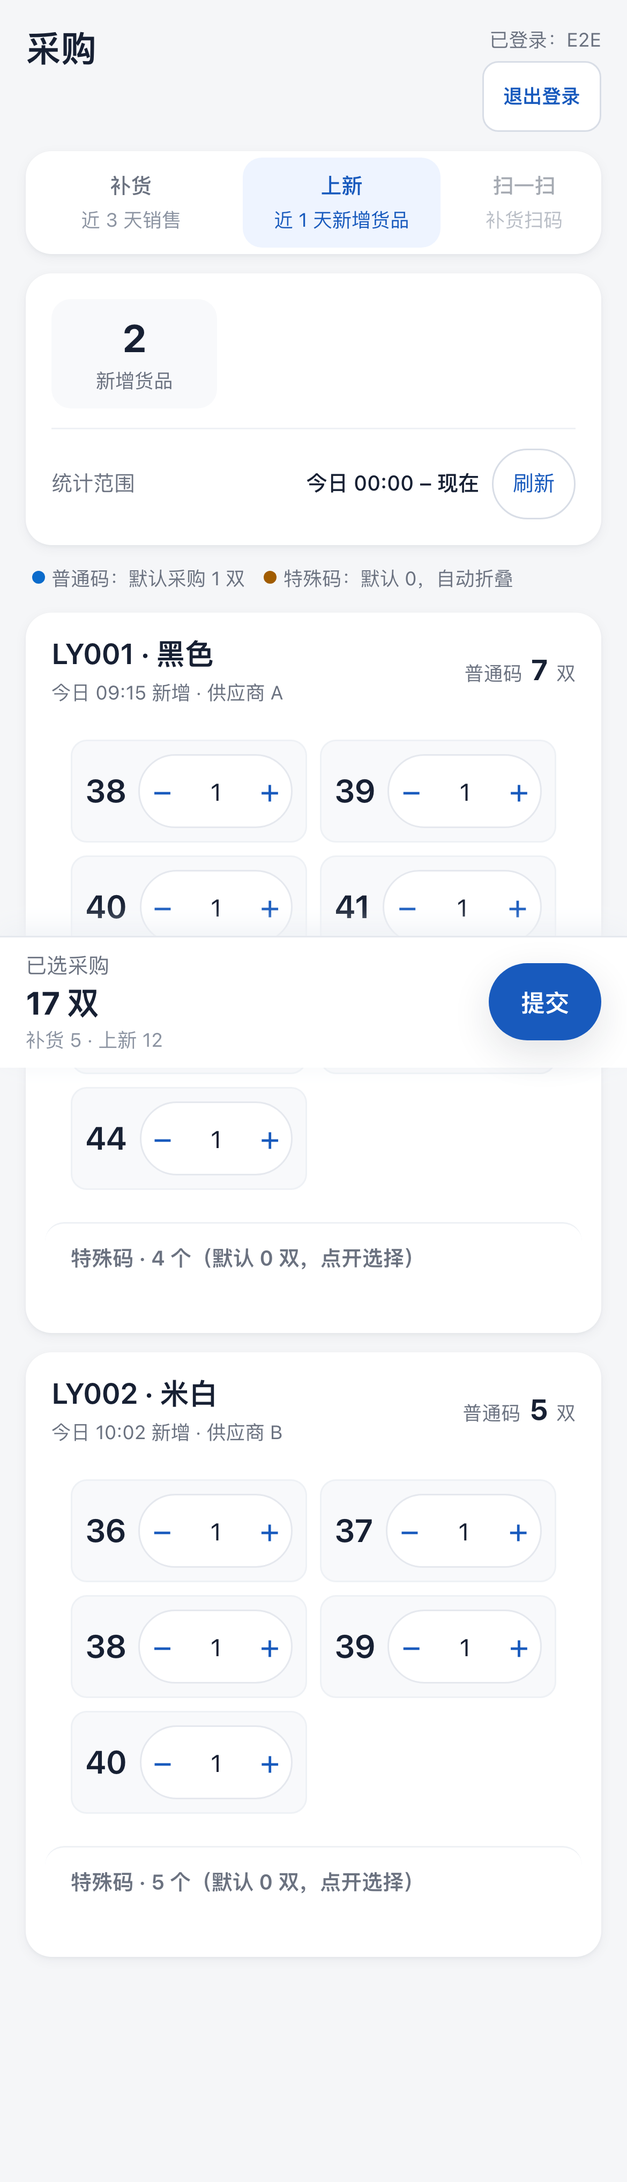
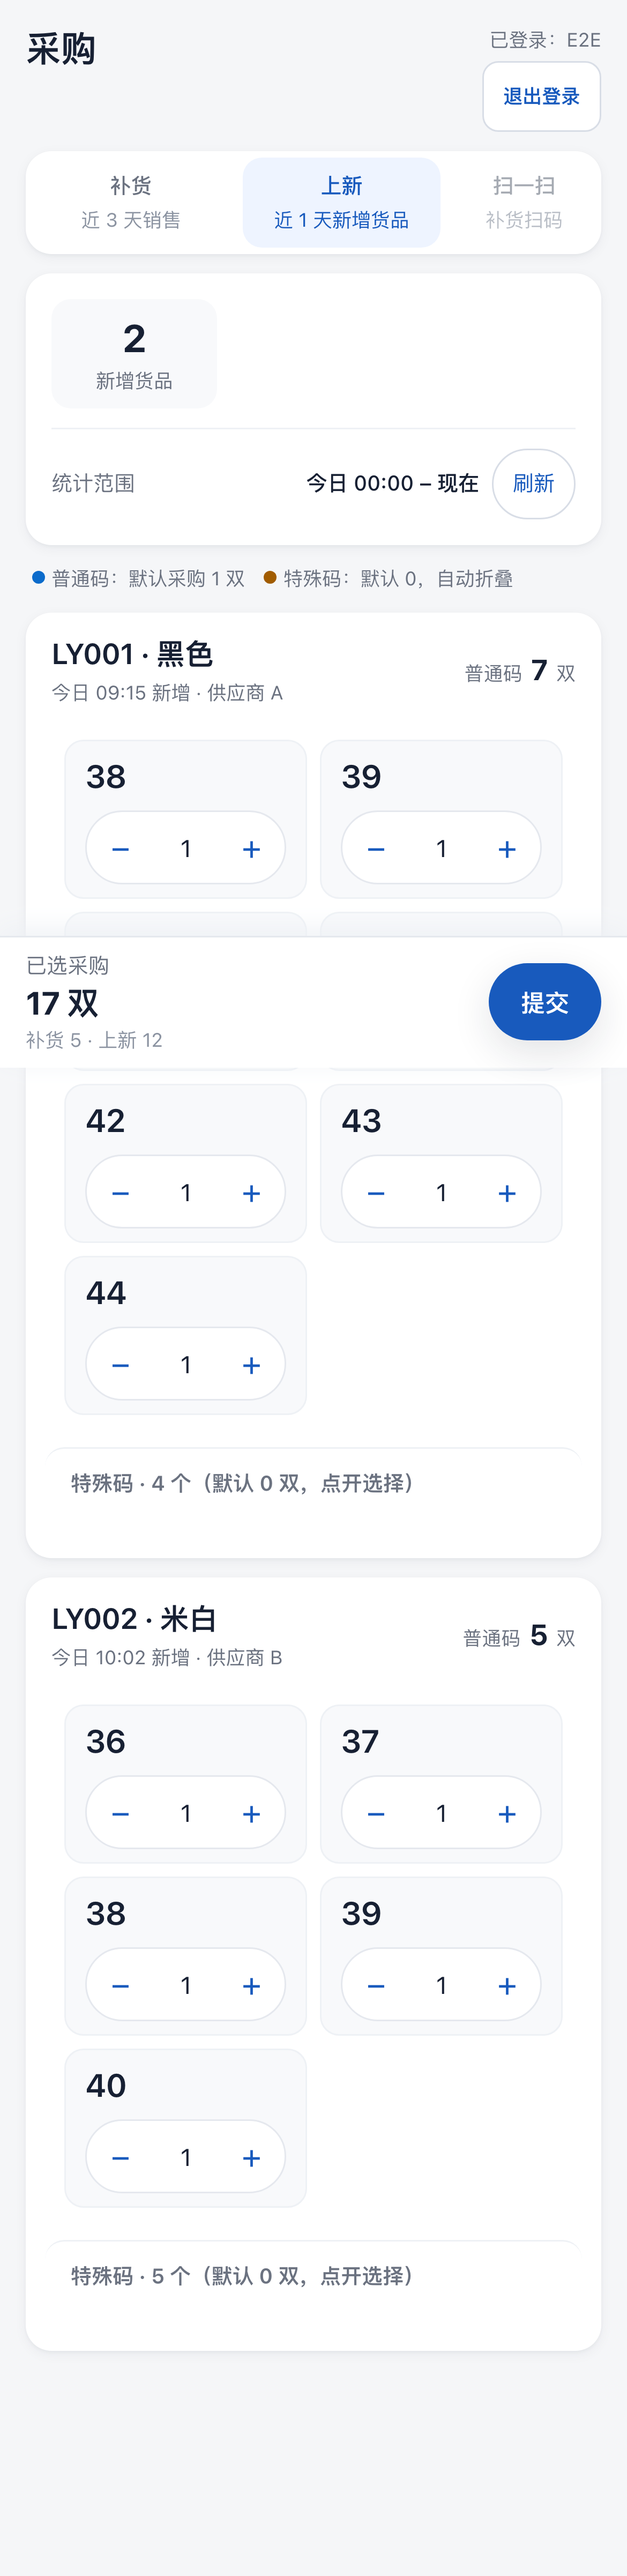
feat(procurement): 上新尺码格统一成补货同款卡片样式（业务负责人 2026-10-29）
- 上新普通码/特殊码格：一行两个、上下两栏（第一行尺码 / 第二行加减圆框居中），与补货一致；
- 无勾选框；普通码默认 1、特殊码默认 0 并折叠、顶部统计只有「新增货品」等口径不变；
- e2e 14 passed；全量 2262 tests / 2261 pass / 0 fail；size:check 绿。

diff --git a/server/public/workbench/procurement.css b/server/public/workbench/procurement.css
@@ -61,9 +61,9 @@
 .pr-tag-spot { background: var(--info-soft); color: var(--info); }
 .pr-tag-pre { background: var(--warning-soft); color: var(--warning); }
 
-/* 上新尺码格 */
-.pr-new-grid { display: grid; grid-template-columns: repeat(2, minmax(0, 1fr)); gap: var(--space-2); padding: var(--space-2) var(--space-4) var(--space-3); width: 100%; }
-.pr-new-row { display: flex; align-items: center; justify-content: space-between; gap: var(--space-2); padding: var(--space-2); border: 1px solid var(--border-light); border-radius: var(--radius-sm); background: var(--surface-soft); }
+/* 上新尺码格：与补货**同一套卡片样式**（一行两个 · 上下两栏 · 加减圆框居中） */
+.pr-new-grid { display: grid; grid-template-columns: repeat(2, minmax(0, 1fr)); gap: var(--space-2); padding: var(--space-2) var(--space-3) var(--space-3); width: 100%; }
+.pr-new-grid .pr-size-row { width: 100%; }
 .pr-special { width: 100%; padding: 0 var(--space-4) var(--space-3); border-top: 1px solid var(--border-light); }
 .pr-special summary { display: flex; align-items: center; min-height: var(--control-height); font-size: var(--font-size-sm); color: var(--text-secondary); cursor: pointer; }
 

diff --git a/server/public/workbench/features/procurement/render.js b/server/public/workbench/features/procurement/render.js
@@ -101,8 +101,10 @@ export const replenishGroupHtml = (group, draft, store, config) => `<section cla
 
 const newRowHtml = (group, size, draft, store, config) => {
   const quantity = store.quantityOf(draft, group.productRecordId, size);
-  return `<div class="pr-new-row">
-    <div class="pr-size">${escapeHtml(size)}</div>
+  // 业务负责人 2026-10-29：上新尺码格**统一成补货那种卡片样式** ——
+  // 上下两栏（第一行尺码 / 第二行加减圆框居中），一行两个。
+  return `<div class="pr-size-row">
+    <div class="pr-size-row-head"><div class="pr-size">${escapeHtml(size)}</div></div>
     ${stepperHtml({ recordId: group.productRecordId, size, quantity, config })}
   </div>`;
 };

diff --git a/docs/procurement-page-real-2026-10-28.md b/docs/procurement-page-real-2026-10-28.md
@@ -109,8 +109,9 @@ tab 切换保留当前会话已选数据；点「提交」才统一写入
 - **AC-P17 薄壳 + 模块化**：`procurement.html` 只做壳（引 CSS/模块、挂载根节点，≤200 行）；业务逻辑全在
   `features/procurement/**`；文案/默认值/尺码规则/端点/刷新参数全在 `config/procurement.js`；
   新文件每个 ≤200 行；**不往旧 398 行演示页补逻辑，整体替换**。
-- **AC-P18c 补货尺码卡 = 一行两个 + 上下两栏**（业务负责人 2026-10-29 批注）：每个尺码卡 = 第一行「尺码 + 现货/预订数量信息」、
-  第二行「加减数量圆框」（**圆框在卡片里居中**）；尺码卡**一行两个**（390 宽下也不横向滚动）。
+- **AC-P18c 尺码卡 = 一行两个 + 上下两栏（补货与上新统一）**（业务负责人 2026-10-29 批注）：每个尺码卡 =
+  第一行「尺码（补货还带现货/预订数量信息）」、第二行「加减数量圆框」（**圆框在卡片里居中**）；
+  尺码卡**一行两个**（390 宽下也不横向滚动）；**上新 tab 的尺码格与补货同一套卡片样式**。
 - **AC-P18b 所有尺码行都不显示勾选框**（业务负责人 2026-10-29 两次批注）：预订行的"对勾"、现货行的"方框"都不要；
   **是否选中由数量框决定（0 = 不选，>0 = 选中）**；预订行默认已选（数量 = 预订数）；
   现货行第一次点「+」按业务口径先给「现货已售数」（再按 ± 微调）；数量可直接手改。
